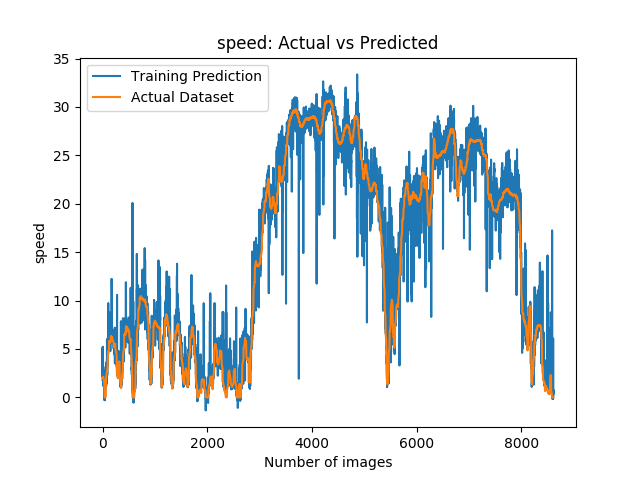
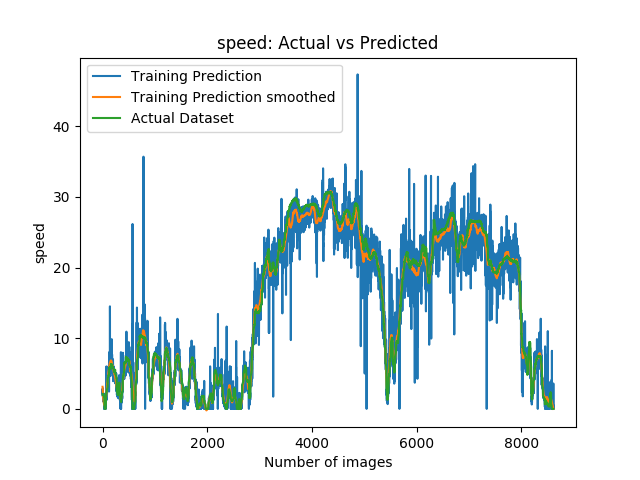
added smoothing

diff --git a/inference.py b/inference.py
@@ -16,6 +16,7 @@ import cv2
 import numpy as np
 from moviepy.editor import ImageSequenceClip
 import argparse
+import scipy
 
 # path for the predicted images
 data_output_path='./data_predicted/'
@@ -106,11 +107,22 @@ def main(images_extracted_path, mode="dense_optical_flow", video_generation="no"
     print('Evaluation loss: %f' % score)
 
     print('predicting.....')
-    y_predicted=model_val.predict(x)
+    y=model_val.predict(x)
+    y=y.flatten()
+    y_predicted=y
+
+    # smoothing the predicted data, can be removed
+    if mode == "dense_optical_flow":
+        # smooth using Savitzky–Golay filter
+        y_predicted = scipy.signal.savgol_filter(y, 101, 3) # 101 window length and fit using 3 order polynomial
+    else:
+        # smooth using Savitzky–Golay filter
+        y_predicted = scipy.signal.savgol_filter(y, 51, 3) # 51 window length and fit using 3 order polynomial
 
     # Plotting speed actual vs predicted
     plt.figure(0)
-    plt.plot(y_predicted, label = 'Training Prediction')
+    plt.plot(y, label = 'Training Prediction')
+    plt.plot(y_predicted, label = 'Training Prediction smoothed')
     plt.plot(y_actual, label = 'Actual Dataset')
     plt.title('speed: Actual vs Predicted')
     plt.xlabel('Number of images')

diff --git a/load_data.py b/load_data.py
@@ -238,8 +238,8 @@ def genDataDOpticalflow(mode, batch_size=64):
             # append the data
             X_batch.append(rgb_dense_flow)
 
-            # get the mean speed from both the images
-            speed=np.mean([curr_speed, next_speed])
+            # get the next speed of next image
+            speed=next_speed
             y_batch.append(speed)
 
         yield shuffle(np.array(X_batch), np.array(y_batch))
@@ -289,8 +289,8 @@ def load_XDenseOptFlowInput():
 def load_yDenseOptFlowLabels():
     y=[]
     for i in range(1, len(data)):
-        # as we estimate the mean of the speed of both the images
-        yt = np.mean([data[i-1][1], data[i][1]])
+        # as we estimate the speed of next image
+        yt = data[i][1]
         y.append(yt)
 
     return np.array(y)
